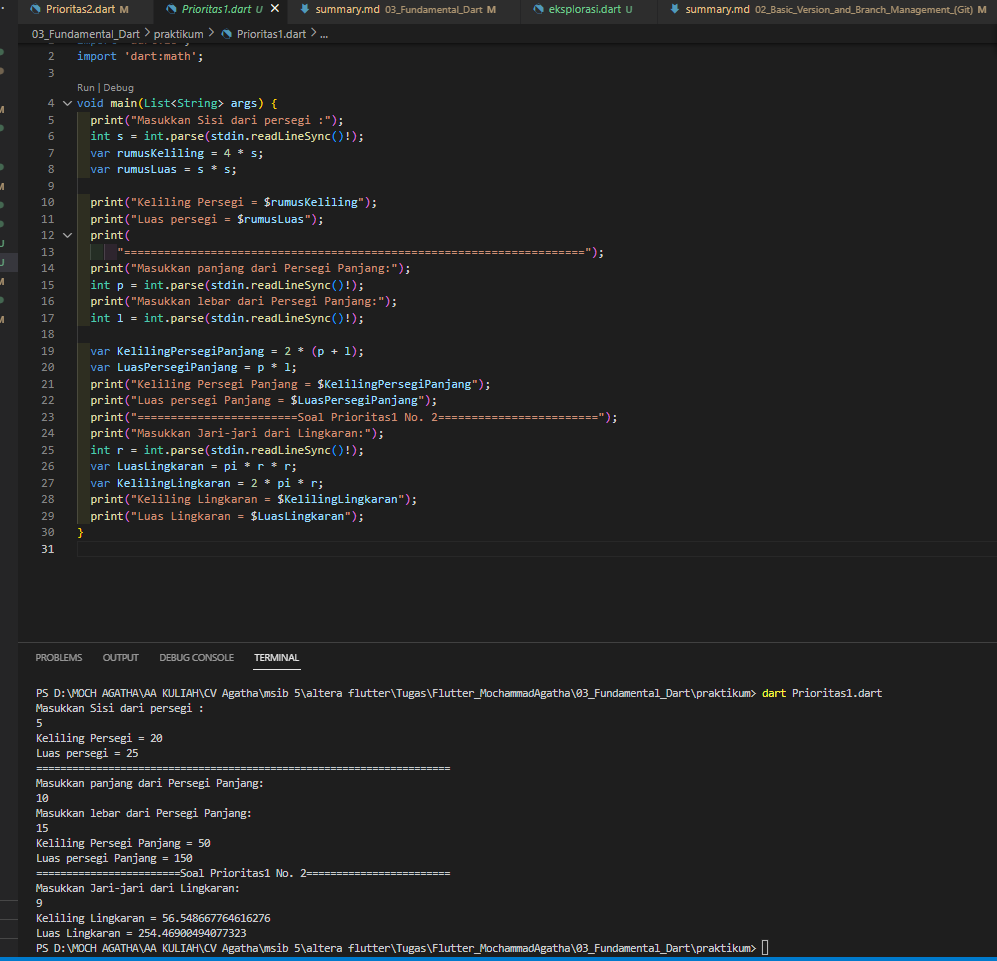
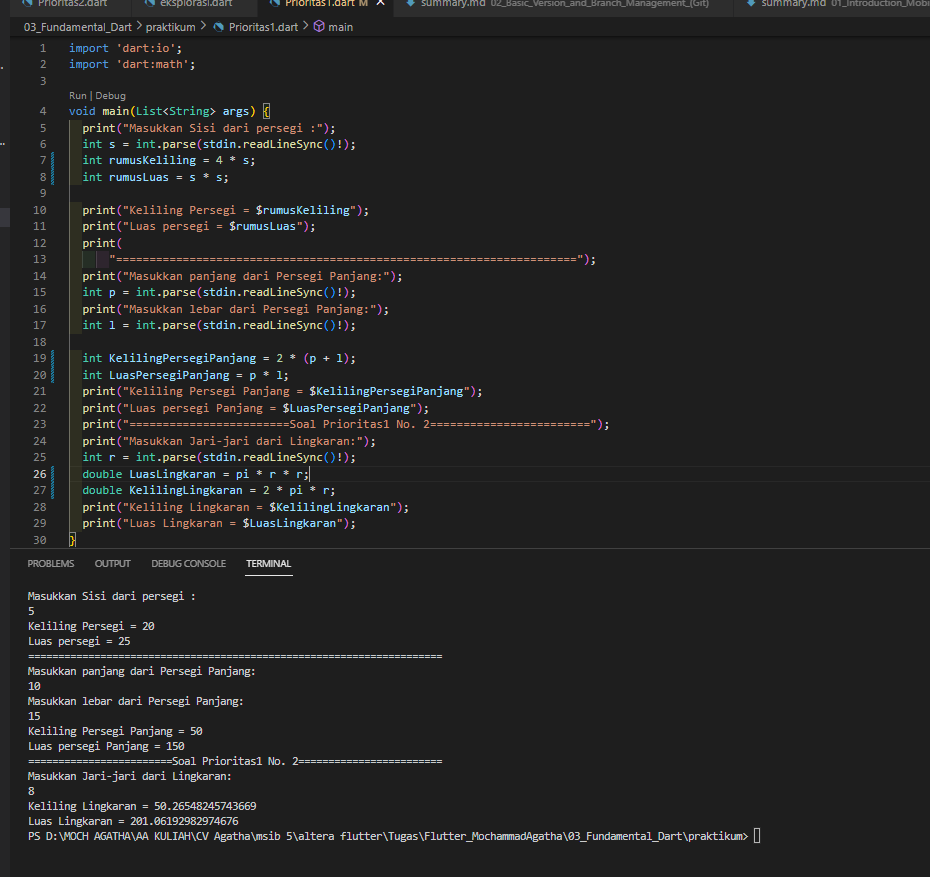
Revisi

Changed region(s): [[0.0, 0.0, 1.0, 0.6465], [0.0, 0.6773, 1.0, 1.0]]

diff --git a/03_Fundamental_Dart/praktikum/Prioritas1.dart b/03_Fundamental_Dart/praktikum/Prioritas1.dart
@@ -4,8 +4,8 @@ import 'dart:math';
 void main(List<String> args) {
   print("Masukkan Sisi dari persegi :");
   int s = int.parse(stdin.readLineSync()!);
-  var rumusKeliling = 4 * s;
-  var rumusLuas = s * s;
+  int rumusKeliling = 4 * s;
+  int rumusLuas = s * s;
 
   print("Keliling Persegi = $rumusKeliling");
   print("Luas persegi = $rumusLuas");
@@ -16,15 +16,15 @@ void main(List<String> args) {
   print("Masukkan lebar dari Persegi Panjang:");
   int l = int.parse(stdin.readLineSync()!);
 
-  var KelilingPersegiPanjang = 2 * (p + l);
-  var LuasPersegiPanjang = p * l;
+  int KelilingPersegiPanjang = 2 * (p + l);
+  int LuasPersegiPanjang = p * l;
   print("Keliling Persegi Panjang = $KelilingPersegiPanjang");
   print("Luas persegi Panjang = $LuasPersegiPanjang");
   print("========================Soal Prioritas1 No. 2========================");
   print("Masukkan Jari-jari dari Lingkaran:");
   int r = int.parse(stdin.readLineSync()!);
-  var LuasLingkaran = pi * r * r;
-  var KelilingLingkaran = 2 * pi * r;
+  double LuasLingkaran = pi * r * r;
+  double KelilingLingkaran = 2 * pi * r;
   print("Keliling Lingkaran = $KelilingLingkaran");
   print("Luas Lingkaran = $LuasLingkaran");
 }

diff --git a/03_Fundamental_Dart/praktikum/Prioritas2.dart b/03_Fundamental_Dart/praktikum/Prioritas2.dart
@@ -13,7 +13,7 @@ void main() {
   int r = int.parse(stdin.readLineSync()!);
   print("Masukkan Tinggi dari Tabung:");
   int t = int.parse(stdin.readLineSync()!);
-  var rumus = pi * (r * r) * t;
+  double rumus = pi * (r * r) * t;
 
   print("Volume Tabung = $rumus");
 }
